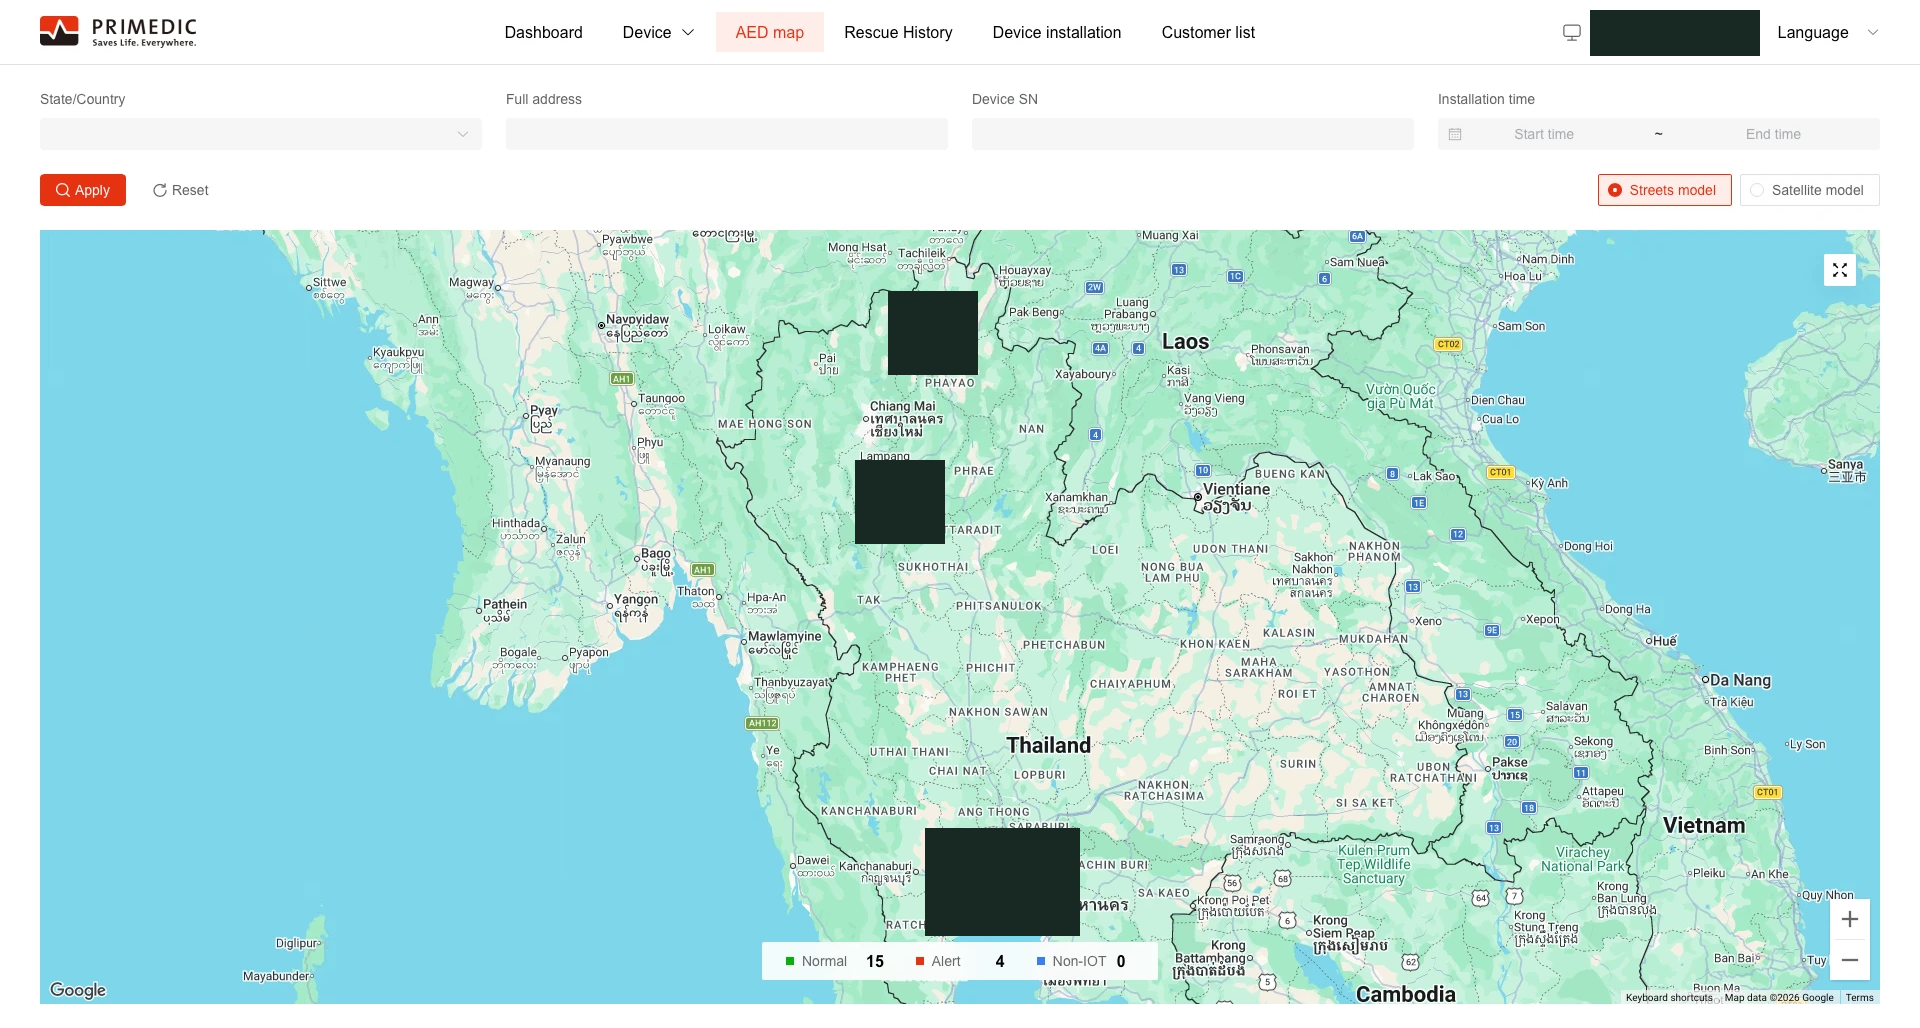
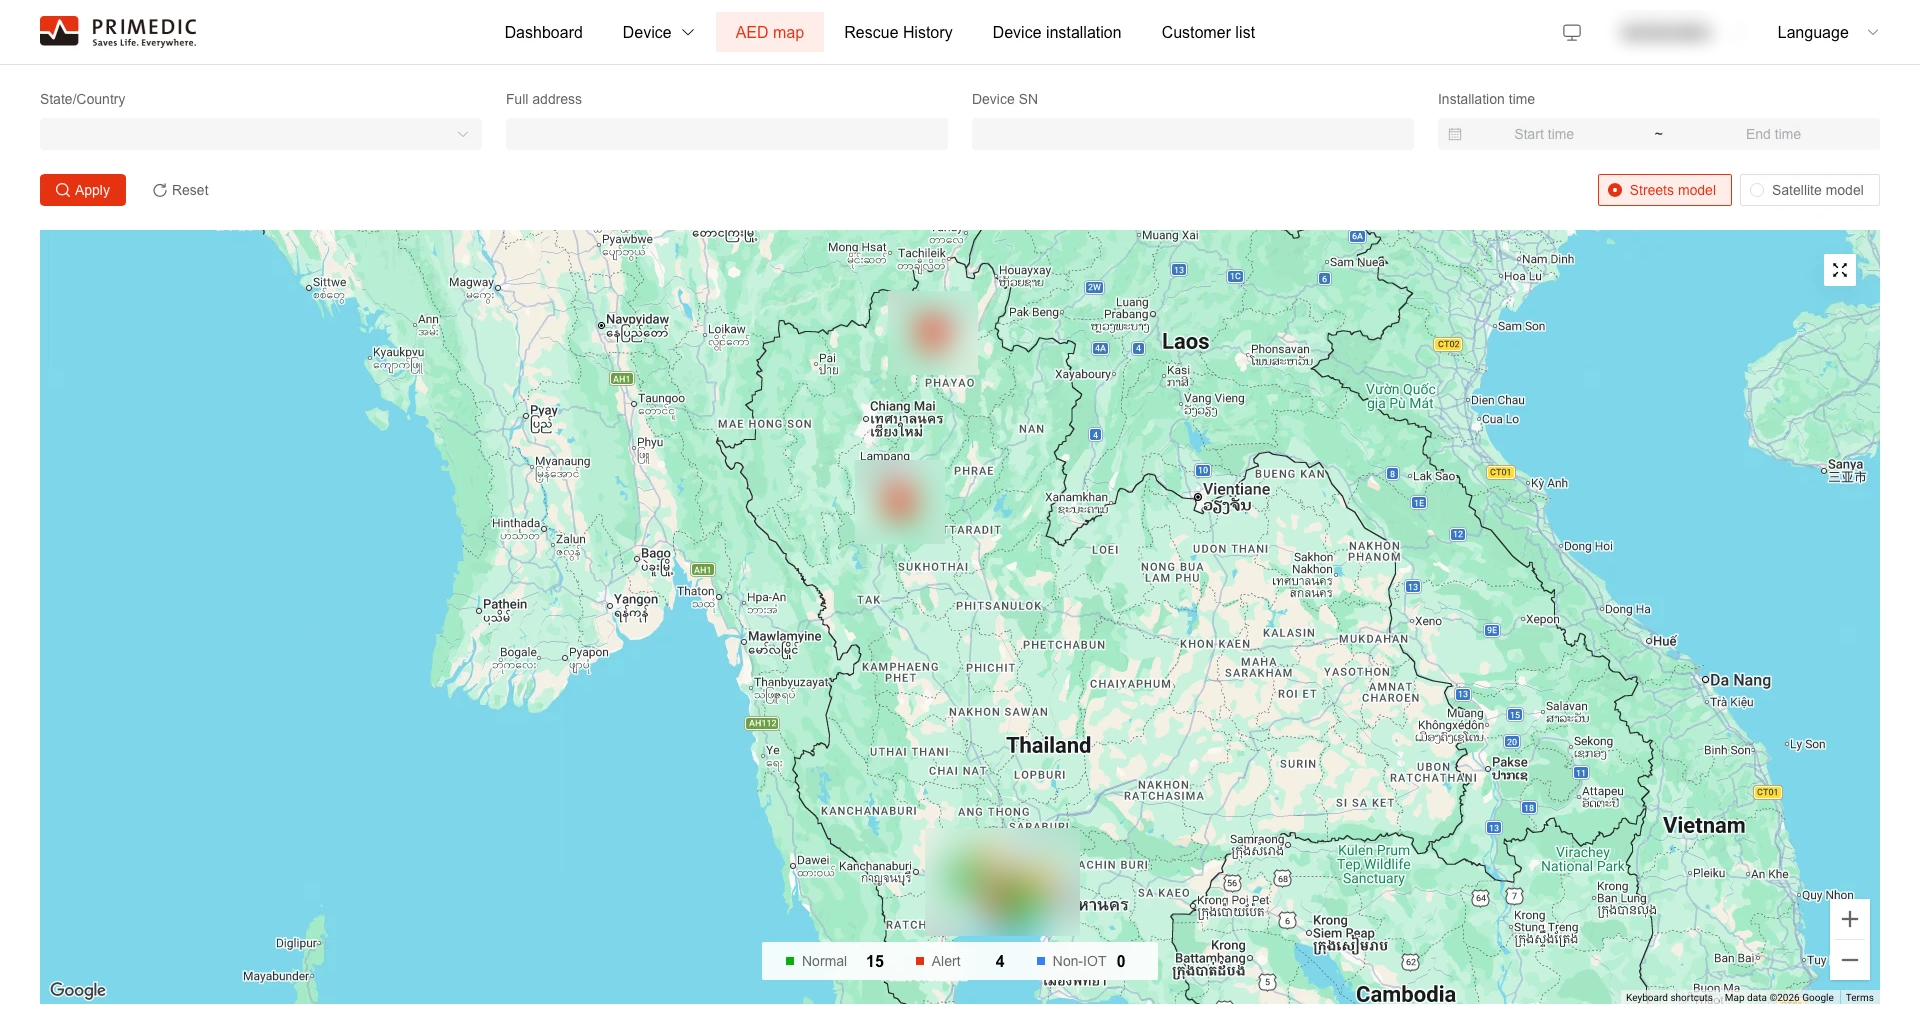
Use real, blurred PRIMEDIC CLOUD screens instead of the mock dashboard
The owner asked for blur instead of black boxes: redact-image.mjs now
defaults to shrinking each region to 1/16 and blurring it back, which reads
softly but leaves nothing recoverable; the four screenshots are regenerated
that way. The illustrative dashboard (made-up 24/20/3/1 figures) is replaced
by the real fleet map on the home, rental, packages and subscription pages,
and the subscription page's flyer by the real per-device screen.

Claude-Session: https://claude.ai/code/session_01JgxTQQWT7uZXXLkWMXY78a

diff --git a/lib/aed/monitoring-page.ts b/lib/aed/monitoring-page.ts
@@ -60,7 +60,7 @@ export const CLOUD_SNAPSHOT = {
 } as const;
 
 // ── Redacted screenshots ──────────────────────────────────────────────────────
-// Produced by scripts/redact-image.mjs (boxes burned into the pixels, metadata
+// Produced by scripts/redact-image.mjs (regions downsampled 16× then blurred into the pixels, metadata
 // stripped) and checked by eye. No user name, email, phone, customer, address,
 // serial number, or per-device GPS point/coordinate may be readable.
 //   map       — account phone number and every device pin covered (legend 15/4/0 kept)
@@ -77,14 +77,14 @@ export const CLOUD_SCREENSHOT: Screenshot = {
   src: "/images/primedic-cloud-map-2026-11-23-redacted.png",
   width: 1920,
   height: 1028,
-  alt: "หน้าจอ PRIMEDIC CLOUD แผนที่ภาพรวมเครื่อง Normal 15 · Alert 4 (ปิดทับหมุดตำแหน่งรายเครื่องและเบอร์โทรบัญชีแล้ว)",
+  alt: "หน้าจอ PRIMEDIC CLOUD แผนที่ภาพรวมเครื่อง Normal 15 · Alert 4 (เบลอหมุดตำแหน่งรายเครื่องและเบอร์โทรบัญชีแล้ว)",
 };
 
 export const CLOUD_DEVICE_SCREENSHOT: Screenshot = {
   src: "/images/primedic-cloud-device-2026-11-23-redacted.png",
   width: 880,
   height: 572,
-  alt: "หน้าจอข้อมูลรายเครื่อง PRIMEDIC CLOUD รุ่น Y8 แสดงวันหมดอายุแผ่นอิเล็กโทรดและแบตเตอรี่ (ปิดหมายเลขเครื่อง หมายเลขแบตเตอรี่ และตำแหน่งแล้ว)",
+  alt: "หน้าจอข้อมูลรายเครื่อง PRIMEDIC CLOUD รุ่น Y8 แสดงวันหมดอายุแผ่นอิเล็กโทรดและแบตเตอรี่ (เบลอหมายเลขเครื่อง หมายเลขแบตเตอรี่ และตำแหน่งแล้ว)",
 };
 
 export const CLOUD_GALLERY: (Screenshot & { caption: string })[] = [
@@ -92,15 +92,15 @@ export const CLOUD_GALLERY: (Screenshot & { caption: string })[] = [
     src: "/images/primedic-cloud-map-satellite-2026-11-23-redacted.png",
     width: 1920,
     height: 1028,
-    alt: "PRIMEDIC CLOUD แผนที่แบบดาวเทียม สรุป Normal 15 · Alert 4 (ปิดทับหมุดตำแหน่งรายเครื่องและเบอร์โทรบัญชีแล้ว)",
-    caption: "AED map แบบดาวเทียม — ภาพรวมทุกจุดติดตั้ง (ปิดตำแหน่งรายเครื่อง)",
+    alt: "PRIMEDIC CLOUD แผนที่แบบดาวเทียม สรุป Normal 15 · Alert 4 (เบลอหมุดตำแหน่งรายเครื่องและเบอร์โทรบัญชีแล้ว)",
+    caption: "AED map แบบดาวเทียม — ภาพรวมทุกจุดติดตั้ง (เบลอตำแหน่งรายเครื่อง)",
   },
   {
     src: "/images/primedic-cloud-installs-2026-11-23-redacted.png",
     width: 1920,
     height: 1028,
-    alt: "PRIMEDIC CLOUD หน้าบันทึกการติดตั้งเครื่อง พร้อมวันเวลาติดตั้ง (ปิดชื่อลูกค้า ที่อยู่ และหมายเลขเครื่องแล้ว)",
-    caption: "Device installation — บันทึกการติดตั้งทุกเครื่อง (ปิดชื่อลูกค้า ที่อยู่ และ SN)",
+    alt: "PRIMEDIC CLOUD หน้าบันทึกการติดตั้งเครื่อง พร้อมวันเวลาติดตั้ง (เบลอชื่อลูกค้า ที่อยู่ และหมายเลขเครื่องแล้ว)",
+    caption: "Device installation — บันทึกการติดตั้งทุกเครื่อง (เบลอชื่อลูกค้า ที่อยู่ และ SN)",
   },
 ];
 

diff --git a/app/aed/subscription/page.tsx b/app/aed/subscription/page.tsx
@@ -1,6 +1,7 @@
 import { MarketPage, MarketHero, MarketButton } from "@/app/components/MarketShell";
 import type { Metadata } from "next";
 import Image from "next/image";
+import { CLOUD_DEVICE_SCREENSHOT } from "@/lib/aed/monitoring-page";
 import Link from "next/link";
 import { SectionHeading } from "@/app/components/SectionHeading";
 import { FeatureMatrix } from "@/app/components/FeatureMatrix";
@@ -54,16 +55,22 @@ export default function SubscriptionPage() {
 
         {/* GPS AED + Cloud Dashboard flyer + the 4 things the service actually does */}
         <div className="mt-8 grid md:grid-cols-2 gap-8 items-center">
-          <div className="rounded-2xl overflow-hidden border border-gray-800">
+          {/* Real PRIMEDIC CLOUD screen (blurred) — replaced the flyer whose
+              dashboard mock-up showed made-up 24/20/3/1 figures. */}
+          <figure className="m-0 rounded-2xl overflow-hidden border border-gray-800 bg-white">
             <Image
-              src="/images/yuwell-gps-flyer.png"
-              alt="Yuwell GPS AED เช่า พร้อมระบบ Cloud Dashboard ติดตามสถานะ Real-time"
-              width={1159}
-              height={1358}
+              src={CLOUD_DEVICE_SCREENSHOT.src}
+              alt={CLOUD_DEVICE_SCREENSHOT.alt}
+              width={CLOUD_DEVICE_SCREENSHOT.width}
+              height={CLOUD_DEVICE_SCREENSHOT.height}
               className="w-full h-auto"
               priority
             />
-          </div>
+            <figcaption className="bg-gray-900 px-4 py-2 text-[11px] text-gray-400">
+              หน้าจอข้อมูลรายเครื่องในระบบจริง — ทีมงานเห็นวันหมดอายุแผ่นอิเล็กโทรดและแบตเตอรี่ของทุกเครื่อง ·{" "}
+              <Link href="/aed/monitoring" className="underline">ดูระบบตรวจเครื่องออนไลน์</Link>
+            </figcaption>
+          </figure>
           <div className="space-y-3">
             {[
               { icon: "📡", title: "GPS + Cloud Dashboard", desc: `เห็นตำแหน่งและสถานะเครื่องทุกจุดในหน้าจอเดียว แบบ Real-time (ระดับ ${tiersWith("Yuwell GPS ติดตามตำแหน่ง")})` },

diff --git a/app/components/CloudDashboardSection.tsx b/app/components/CloudDashboardSection.tsx
@@ -1,6 +1,8 @@
 import Image from "next/image";
 import Link from "next/link";
-import { dashboardFeatures, dashboardImage } from "@/lib/aed/gps";
+import { dashboardFeatures, dashboardShot } from "@/lib/aed/gps";
+import { CLOUD_SNAPSHOT } from "@/lib/aed/monitoring-page";
+import { thaiDate } from "@/lib/aed/regulatory";
 import { SectionHeading } from "./SectionHeading";
 
 export function CloudDashboardSection() {
@@ -27,15 +29,19 @@ export function CloudDashboardSection() {
           </Link>
         </div>
 
-        <div className="relative w-full h-64 md:h-80 rounded-2xl overflow-hidden border border-gray-800 bg-gray-900 order-1 md:order-2">
+        <figure className="m-0 order-1 md:order-2 overflow-hidden rounded-2xl border border-gray-800 bg-white">
           <Image
-            src={dashboardImage}
-            alt="ระบบ Cloud Dashboard ตรวจสอบสถานะ AED"
-            fill
-            className="object-cover"
+            src={dashboardShot.src}
+            width={dashboardShot.width}
+            height={dashboardShot.height}
+            alt={dashboardShot.alt}
+            className="h-auto w-full"
             sizes="(max-width: 768px) 100vw, 50vw"
           />
-        </div>
+          <figcaption className="bg-gray-900 px-4 py-2 text-[11px] text-gray-400">
+            หน้าจอระบบจริง ณ {thaiDate(CLOUD_SNAPSHOT.date, "long")} (ไม่ใช่ข้อมูลสด) · เบลอข้อมูลลูกค้าและตำแหน่งรายเครื่องแล้ว
+          </figcaption>
+        </figure>
       </div>
     </section>
   );

diff --git a/app/aed/packages/page.tsx b/app/aed/packages/page.tsx
@@ -1,5 +1,6 @@
 import { MarketPage, MarketHero, MarketButton } from "@/app/components/MarketShell";
 import type { Metadata } from "next";
+import { dashboardImage } from "@/lib/aed/gps";
 import Link from "next/link";
 import { SectionHeading } from "@/app/components/SectionHeading";
 import { PackageCard } from "@/app/components/PackageCard";
@@ -90,7 +91,7 @@ export default function PackagesPage() {
           photos={[
             { src: "/images/training-bls-3.jpg", alt: "อบรม CPR และการใช้ AED ถึงองค์กร", caption: "อบรมโดยทีม BLS Instructor สอนถึงที่" },
             { src: "/images/aed-gps-tracking.png", alt: "ระบบ GPS ติดตามตำแหน่งเครื่อง AED", caption: "GPS ระบุตำแหน่งเครื่องเรียลไทม์" },
-            { src: "/images/cloud-dashboard.png", alt: "Cloud Dashboard ดูสถานะเครื่อง AED", caption: "Dashboard เช็กความพร้อม 24 ชม." },
+            { src: dashboardImage, alt: "หน้าจอ PRIMEDIC CLOUD ภาพรวมสถานะเครื่อง AED (เบลอข้อมูลลูกค้าและตำแหน่งแล้ว)", caption: "หน้าจอระบบจริง — ทีมงานเห็นสถานะทุกเครื่อง" },
           ]}
         />
       </section>

diff --git a/app/aed/monitoring/page.tsx b/app/aed/monitoring/page.tsx
@@ -119,7 +119,7 @@ export default function MonitoringPage() {
               เห็นว่าเครื่องไหนพร้อม เครื่องไหนต้องดูแล
             </h2>
             <p className="market-muted mt-4">
-              ภาพจากระบบ PRIMEDIC CLOUD ของกลุ่มเครื่องที่เจี่ยรักษาดูแล ปิดทับชื่อลูกค้า ที่อยู่ หมายเลขเครื่อง
+              ภาพจากระบบ PRIMEDIC CLOUD ของกลุ่มเครื่องที่เจี่ยรักษาดูแล เบลอชื่อลูกค้า ที่อยู่ หมายเลขเครื่อง
               และตำแหน่งรายเครื่องแล้ว
             </p>
           </div>

diff --git a/lib/aed/gps.ts b/lib/aed/gps.ts
@@ -28,7 +28,12 @@ export const gpsFeatures: { icon: string; title: string; desc: string }[] = [
 ];
 
 // Cloud Monitoring Dashboard — readiness at a glance across all locations.
-export const dashboardImage = "/images/cloud-dashboard.png"; // real Yuwell Cloud Monitoring Dashboard visual
+// Owner, 22 พ.ย. 2026: the real PRIMEDIC CLOUD fleet map (redacted — see
+// lib/aed/monitoring-page.ts) replaces the old illustrative cloud-dashboard.png,
+// whose 24/20/3/1 figures were not real. One constant for every page.
+export { CLOUD_SCREENSHOT as dashboardShot } from "./monitoring-page";
+import { CLOUD_SCREENSHOT } from "./monitoring-page";
+export const dashboardImage = CLOUD_SCREENSHOT.src;
 
 export const dashboardFeatures: string[] = [
   "ดูสถานะเครื่องหลายจุดในหน้าจอเดียว (Multi-location)",

diff --git a/app/page.tsx b/app/page.tsx
@@ -1,5 +1,6 @@
 import type { Metadata } from "next";
 import Image from "next/image";
+import { dashboardImage } from "@/lib/aed/gps";
 import Link from "next/link";
 import { MarketButton, MarketHero, MarketLead, MarketPage } from "./components/MarketShell";
 import { FaqStructuredData, ProductStructuredData } from "./components/StructuredData";
@@ -48,7 +49,7 @@ const standardMonthly = subscriptionTiers[0].pricePerMonth;
 const tierImages: Record<string, string> = {
   "managed-basic": "/images/yuwell-gps-aed.webp",
   "managed-pro": "/images/aed-gps-tracking.png",
-  "managed-elite": "/images/cloud-dashboard.png",
+  "managed-elite": dashboardImage,
 };
 const tierBullets = (id: (typeof subscriptionTiers)[number]["id"]) =>
   subscriptionMatrix

diff --git a/app/aed/rental/page.tsx b/app/aed/rental/page.tsx
@@ -1,5 +1,6 @@
 import type { Metadata } from "next";
 import Image from "next/image";
+import { dashboardImage } from "@/lib/aed/gps";
 import Link from "next/link";
 import { MarketButton, MarketHero, MarketLead, MarketPage } from "@/app/components/MarketShell";
 import { MiniLeadForm } from "@/app/components/MiniLeadForm";
@@ -75,7 +76,7 @@ const shortItems = [
 const tierImages: Record<string, string> = {
   "managed-basic": "/images/yuwell-gps-aed.webp",
   "managed-pro": "/images/aed-gps-tracking.png",
-  "managed-elite": "/images/cloud-dashboard.png",
+  "managed-elite": dashboardImage,
 };
 const tierBullets = (id: (typeof subscriptionTiers)[number]["id"]) =>
   subscriptionMatrix

diff --git a/docs/monitoring-page-2026-11-22.md b/docs/monitoring-page-2026-11-22.md
@@ -6,14 +6,14 @@
 ## เนื้อหา
 1. Hero — "เครื่อง AED ของคุณ ถูกตรวจทุกวัน ทีมงานเห็นผลทุกเครื่อง"
 2. ขั้นตอน 4 ข้อ: เครื่อง Self-test เอง (ทุก 24 ชม. — ดึงจาก `primedicSharedSpecs`) → ส่งผลเข้า PRIMEDIC CLOUD → ทีมงานเห็นทุกเครื่อง → ติดต่อแก้ไขก่อนถึงวันใช้
-3. หน้าจอระบบจริง (ปิดทับแล้ว) + ตัวเลข 19 / Normal 15 / Alert 4 ป้าย "ภาพ ณ 23 พฤศจิกายน 2569 · ไม่ใช่ข้อมูลสด"
+3. หน้าจอระบบจริง (เบลอแล้ว — ย่อ 1/16 แล้วเบลอ กู้ข้อความไม่ได้) + ตัวเลข 19 / Normal 15 / Alert 4 ป้าย "ภาพ ณ 23 พฤศจิกายน 2569 · ไม่ใช่ข้อมูลสด"
 4. ข้อมูลที่ระบบเห็นรายเครื่อง + หมายเหตุว่าลูกค้าเข้าดู Dashboard เองได้เฉพาะ ELITE
 5. แอปมือถือ myAED Finder — ค้นหาเครื่องใกล้สุด นำทาง เวลาเข้าถึง ปุ่มโทร 1669 (ข้อความจากภาพแอปที่เจ้าของส่ง)
 6. ติดต่อ: LINE, โทร, ฟอร์ม "ขอให้ทีมงานพาดูระบบ" (`aed_leads.source = monitoring_form`)
 
 ลิงก์เข้าหน้านี้: footer ทุกหน้า (ระบบตรวจเครื่องออนไลน์) และส่วน Cloud Dashboard ใน `/aed/subscription` · อยู่ใน sitemap
 
-## ภาพหน้าจอ PRIMEDIC CLOUD (เจ้าของส่ง 22 พ.ย. 2026 — ปิดทับแล้ว)
+## ภาพหน้าจอ PRIMEDIC CLOUD (เจ้าของส่ง 22 พ.ย. 2026 — เบลอแล้ว — ย่อ 1/16 แล้วเบลอ กู้ข้อความไม่ได้)
 | ไฟล์ | ต้นฉบับ | ปิดทับ | เก็บไว้ให้เห็น |
 |---|---|---|---|
 | `primedic-cloud-map-2026-11-23-redacted.png` | AED map (Streets) | เบอร์โทรบัญชี · หมุดเครื่องทุกจุด · ตัดแถบเบราว์เซอร์ | ตัวนับ Normal 15 · Alert 4 · Non-IOT 0 |
@@ -32,4 +32,8 @@
 ## ข้อควรรู้
 - ตัวเลข 19/15/4 เป็นภาพ ณ 23 พ.ย. 2569 — ถ้าอยากอัปเดต แก้ `CLOUD_SNAPSHOT` และเปลี่ยนภาพพร้อมกัน
 - หน้าแสดงชื่อ/ภาพเครื่องมือแพทย์บน jiaaed.com — ฆพ. ทั้งสองใบระบุสื่อ www.jia1669.com (ดู `docs/jia1669-domain-alignment-2026-07-17.md`) เป็นประเด็นเดิมของทั้งเว็บ ไม่ใช่เฉพาะหน้านี้
-- ส่วน Cloud Dashboard ใน `/aed/subscription` ยังใช้ภาพประกอบ `cloud-dashboard.png` (ตัวเลข 24/20/3/1 ไม่ใช่ของจริง) — ควรเปลี่ยนเป็นภาพจริงชุดนี้ในงานถัดไป
+- **เปลี่ยนแล้ว (22 พ.ย. 2026):** ภาพ Dashboard ปลอม (`cloud-dashboard.png` / `yuwell-gps-flyer.png` ตัวเลข 24/20/3/1)
+  ถูกแทนด้วยภาพจริงที่เบลอแล้ว ใน `/aed/subscription` (ส่วน Cloud Dashboard + รูปข้างรายการบริการ), หน้าแรก, `/aed/rental` (การ์ด ELITE)
+  และ `/aed/packages` — ทุกที่อ่านจาก `dashboardImage` ใน `lib/aed/gps.ts` จุดเดียว
+- **เบลอ ไม่ใช่กล่องดำ** (เจ้าของขอ 22 พ.ย.): `redact-image.mjs` ค่าเริ่มต้น `mode: "blur"` ย่อพื้นที่เหลือ 1/16 แล้วเบลอ
+  ข้อความหายถาวร กู้ไม่ได้ · ใช้ `"mode": "box"` ถ้าต้องการปิดทึบ
